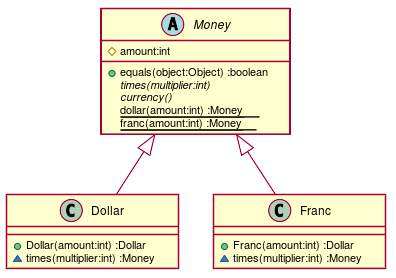
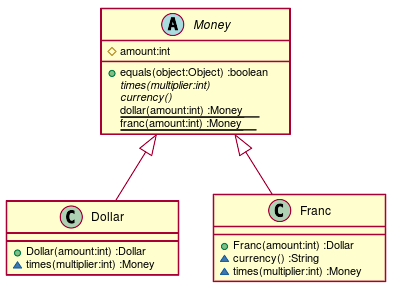
第９章 歩幅の調整 Step4

Changed region(s): [[0.2424, 0.0, 0.7576, 0.6331], [0.5152, 0.6331, 1.0, 0.9784], [0.0, 0.6043, 0.4545, 0.9784]]

diff --git a/src/main/java/tdd/money/Franc.java b/src/main/java/tdd/money/Franc.java
@@ -4,6 +4,9 @@ class Franc extends Money {
     Franc(int amount) {
         this.amount = amount;
     }
+    String currency() {
+        return "CHF";
+    }
     Money times(int multiplier) {
         return new Franc(amount * multiplier);
     }

diff --git a/docs/TDD.md b/docs/TDD.md
@@ -59,7 +59,7 @@
 ### クラス図
   
 
-![](./assets/0285dfa24ee25b18e00bb369b57da6820.png?0.8840908064220112)  
+![](./assets/0285dfa24ee25b18e00bb369b57da6820.png?0.2683097046960463)  
 ### シーケンス図
   
   
@@ -124,6 +124,9 @@ package tdd.money;
 class Franc extends Money {
     Franc(int amount) {
         this.amount = amount;
+    }
+    String currency() {
+        return "CHF";
     }
     Money times(int multiplier) {
         return new Franc(amount * multiplier);

diff --git a/docs/src/TDD.md b/docs/src/TDD.md
@@ -66,6 +66,7 @@ class Dollar {
 }
 class Franc {
   +Franc(amount:int) :Dollar
+  ~currency() :String
   ~times(multiplier:int) :Money
 }
 abstract Money {
